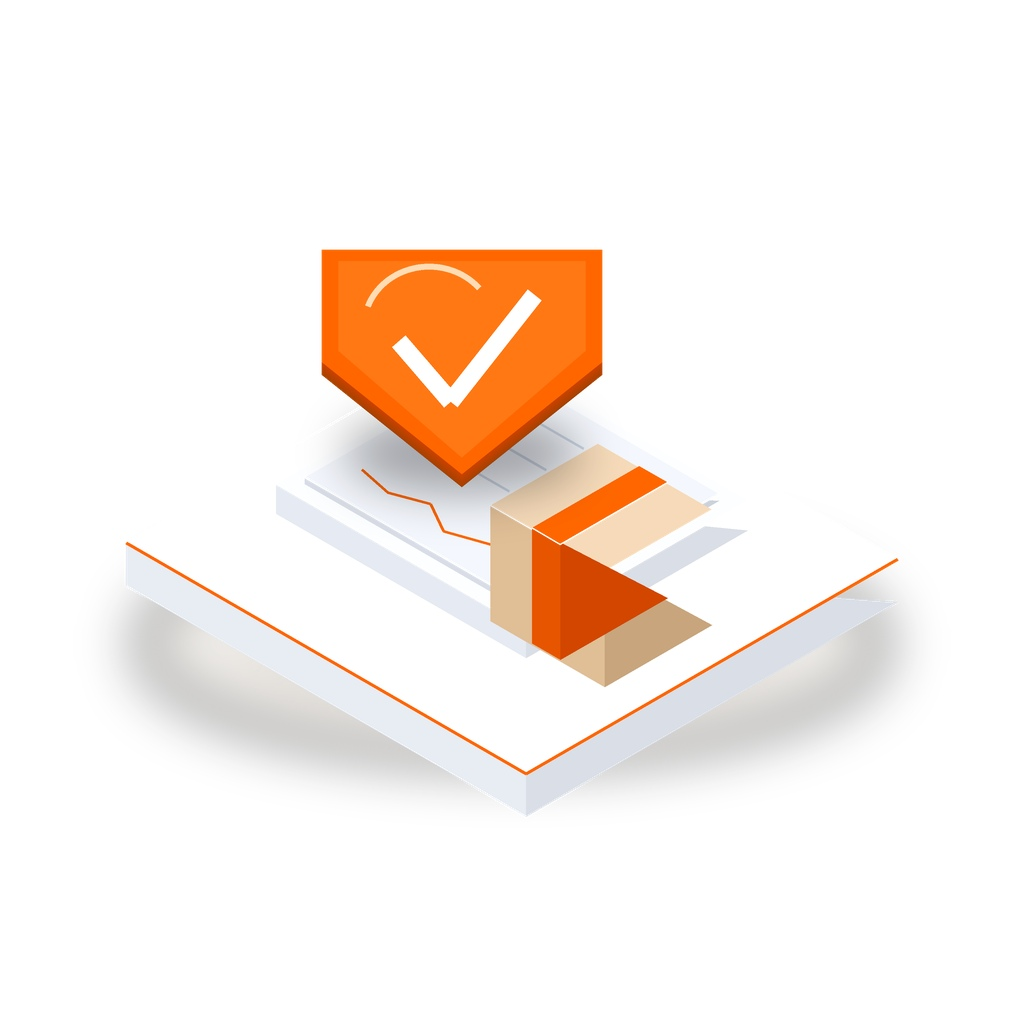
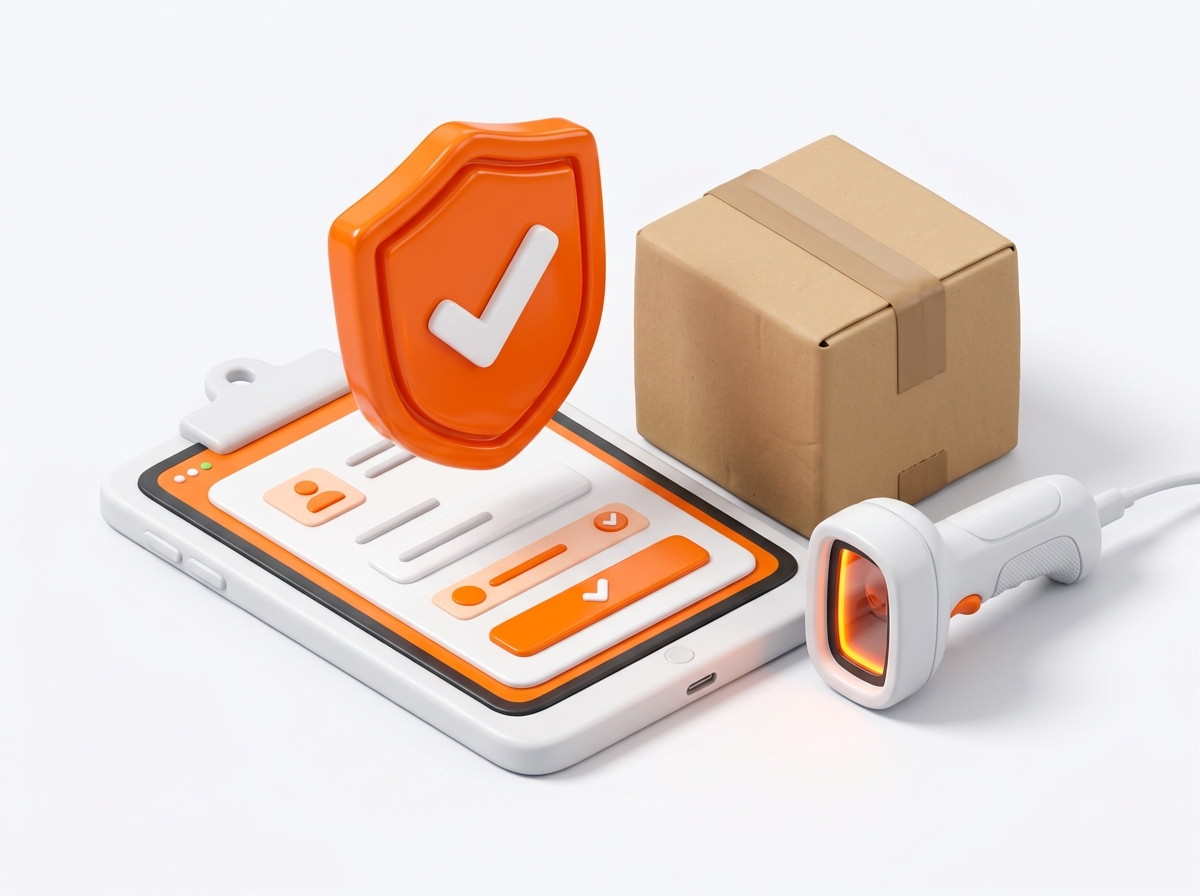
feat(ui): update service 3 and 4 with photorealistic close-up 3D AI illustrations matching scale of first two cards

diff --git a/web/src/app/page.tsx b/web/src/app/page.tsx
@@ -138,25 +138,25 @@ export default function HomePage() {
               {
                 title: "Same-Day Express",
                 desc: "Urgent intra-city & province parcel delivery with priority rider dispatch in under 10 minutes.",
-                image: "/service-express.jpg",
+                image: "/service-express.jpg?v=3",
                 link: "/booking",
               },
               {
                 title: "Live GPS Tracking",
                 desc: "Real-time WebSocket milestone updates, live map coordinates, and dynamic arrival estimates.",
-                image: "/service-tracking.jpg",
+                image: "/service-tracking.jpg?v=3",
                 link: "/#process",
               },
               {
                 title: "Merchant Partner B2B",
                 desc: "Automated order injection APIs, bulk waybill generation, and event-driven HMAC webhooks.",
-                image: "/service-api.jpg",
+                image: "/service-api.jpg?v=3",
                 link: "/portal",
               },
               {
                 title: "Verified Delivery POD",
                 desc: "Doorstep camera verification, recipient digital signature, and instant VAT invoice generation.",
-                image: "/service-pod.jpg",
+                image: "/service-pod.jpg?v=3",
                 link: "/#coverage",
               },
             ].map((service, idx) => (
@@ -169,7 +169,7 @@ export default function HomePage() {
                 <div className="absolute top-0 inset-x-0 h-32 bg-gradient-to-b from-orange-100/30 to-transparent pointer-events-none" />
 
                 {/* 3D Thematic Graphic Container */}
-                <div className="h-44 sm:h-48 w-full flex items-center justify-center p-2 mb-4 relative z-10">
+                <div className="h-48 sm:h-52 w-full flex items-center justify-center p-1 mb-4 relative z-10">
                   <img
                     src={service.image}
                     alt={service.title}
